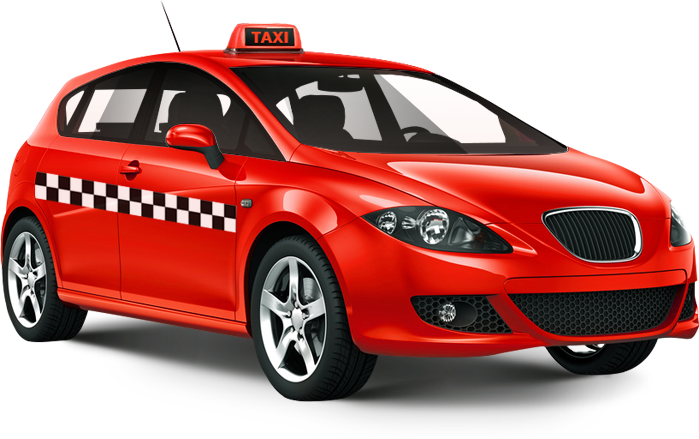
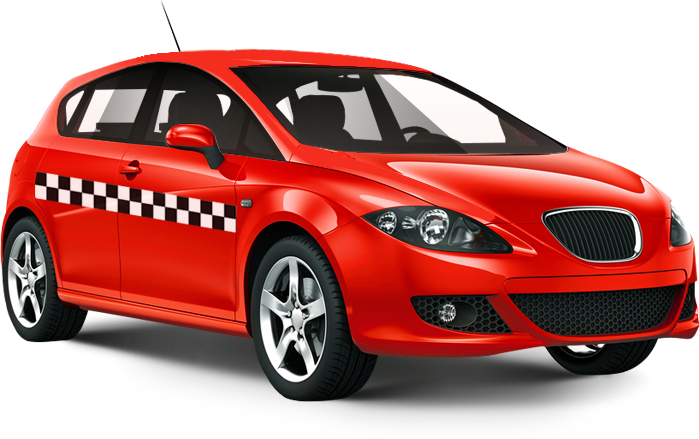
ben kia sua linh tinh

Changed region(s): [[0.2103, 0.0296, 0.6009, 0.2073], [0.4506, 0.3257, 0.5408, 0.385], [0.6609, 0.4738, 0.721, 0.5034]]

diff --git a/public/css/style.css b/public/css/style.css
@@ -1475,7 +1475,7 @@ nav.navbar.affix {
     }
 }
 #services .image {
-    height: 150px;
+    /* height: 150px; */
     line-height: 150px
 }
 #services p {

diff --git a/dichvu.php b/dichvu.php
@@ -6,7 +6,7 @@
         <div class="row">
             <div class="col-md-4 col-sm-6 col-ms-6 matchHeight" style="height: 222px;"> 
                 <div class="image text-center" >
-                    <img src="public/images/bike.png" width="150px" height="150px" alt="Service">
+                    <img src="public/images/bike.png"  height="150px" alt="Service">
                 </div>
                 <h5 class="text-center" >ABER BIKE</h5>
                 <p class="text-justify">
@@ -16,7 +16,7 @@
 
             <div class="col-md-4 col-sm-6 col-ms-6 matchHeight" style="height: 222px;"> 
                 <div class="image text-center">
-                    <img src="public/images/car.png" width="150px" height="150px" alt="Service">
+                    <img src="public/images/car.png"  height="150px" alt="Service">
                 </div>
                 <h5 class="text-center">ABER CAR</h5>
                 <p class="text-justify">
@@ -25,7 +25,7 @@
             </div>
             <div class="col-md-4 col-sm-6 col-ms-6 matchHeight" style="height: 222px;"> 
                 <div class="image text-center">
-                    <img src="public/images/truck.png" width="150px" height="150px" alt="Service">
+                    <img src="public/images/truck.png" height="150px" alt="Service">
                 </div>
                 <h5 class="text-center">ABER TRUCK </h5>
                 <p class="text-justify">
@@ -34,7 +34,7 @@
             </div>
             <div class="col-md-4 col-sm-6 col-ms-6 matchHeight" style="height: 222px;">
                 <div class="image">
-                    <img src="public/images/travel.png" width="150px" height="150px" alt="Service">
+                    <img src="public/images/travel.png"  height="150px" alt="Service">
                 </div>
                 <h5 class="text-center">ABER TRAVEL </h5>
                 <p class="text-center">Trải nghiệm du lịch cùng Aber</p>
@@ -44,12 +44,24 @@
             </div>
             <div class="col-md-4 col-sm-6 col-ms-6 matchHeight" style="height: 222px;">
                 <div class="image">
-                    <img src="public/images/express.png" width="150px" height="150px" alt="Service">
+                    <img src="public/images/express.png"  height="150px" alt="Service">
                 </div>
                 <h5 class="text-center">Aber Express </h5>
                 <p class="text-center"> Xe giao hàng</p>
                 <p class="text-justify">
                     Nhanh chóng và tiện lợi, Aber Express giúp bạn giao nhận hàng hóa đến bất cứ địa điểm nào trong thành phố, với tiêu chí: Nhanh chóng, hiện đại, chuyên nghiệp và uy tín
+                </p>
+            </div>
+            <div class="col-md-4 col-sm-6 col-ms-6 matchHeight" style="height: 222px;">
+                <div class="image">
+                    <img src="public/images/Icon-06.png"  height="150px" alt="Service">
+                </div>
+                <h5 class="text-center">Aber Bus </h5>
+                <p class="text-center"> Xe đường dài</p>
+                <p class="text-justify">
+                Aber Bus là hình thức liên kết giữa các loại hình vận tải nhằm phục vụ bạn tốt nhất, giúp bạn quản lý được thời gian hiệu quả nhất với hình thức đưa đón tận nhà.
+Điểm nổi bật của Aber Bus là liên kết các loại hình dịch vụ với tiêu chí an toàn, tiện lợi và tiết kiệm, bạn có thể chọn loại xe đưa theo nhu cầu, từ xe moto cho đến xe oto, từ xe bình dân cho đến xe VIP... Với Aber Bus, bạn sẽ không phải lo về việc trễ chuyến xe hay nạn chèn ép tại bến xe.
+Aber Bus, giúp bạn thoải mái hơn cho những chuyến đi
                 </p>
             </div>
         </div>

diff --git a/header.php b/header.php
@@ -25,7 +25,7 @@ include './DAO.php';
     <link href="public/css/swiper.css" rel="stylesheet">
     <link href="public/css/swipebox.css" rel="stylesheet">
     <link href="public/css/zoomslider.css" rel="stylesheet">
-    <link href="public/css/style.css?v=1" rel="stylesheet">
+    <link href="public/css/style.css?v=2" rel="stylesheet">
     <link href="public/js/datetimepicker/bootstrap-timepicker.min.css" rel="stylesheet">
     <link rel="stylesheet" href="public/js/jqueryui/1.12.1/themes/smoothness/jquery-ui.css">
     <link href="https:/fonts.googleapis.com/css?family=Fira+Sans+Condensed:700,800%7COpen+Sans:400,600,700" rel="stylesheet">

diff --git a/trangchu.php b/trangchu.php
@@ -41,7 +41,7 @@
             <!-- <a href="<?php echo $linkapp; ?>"><input type="button" class="btn btn-yellow btn-bg-dark btn-lg" value="Đặt xe"></a> -->
         <!-- </form> -->
         <div id="large-image" style="margin-top: 335px">
-            <img src="public/images/aber_taxi.png" alt="Taxi">
+            <img src="public/images/_car-big-2 - Copy.png" alt="Taxi">
             <div class="dialog">
                 <span class="fa fa-phone"></span>
                 <h4 class="white">Liên hệ</h4>

diff --git a/HDSDLX.php b/HDSDLX.php
@@ -60,7 +60,7 @@ Kích hoạt tài khoản</h5>
         <div class="row">
             <div class="col-md-4 col-sm-6 col-ms-6 matchHeight">
                 <div class="image">
-                    <img src="public/images/_car-big-2.png"  width="100%" alt="Service">
+                    <img src="public/images/aber_taxi.png"  width="100%" alt="Service">
                 </div>
             </div>
             <div class="col-md-8 col-sm-6 col-ms-6 matchHeight text-justify">

diff --git a/HDSD.php b/HDSD.php
@@ -15,4 +15,6 @@
 	<div class="container">
 		<div class="blog-post text-page" style="padding-top: 20px;">
 			<strong>Nội dung đang cập nhật...</strong>
+			</div>
 
+</div>
